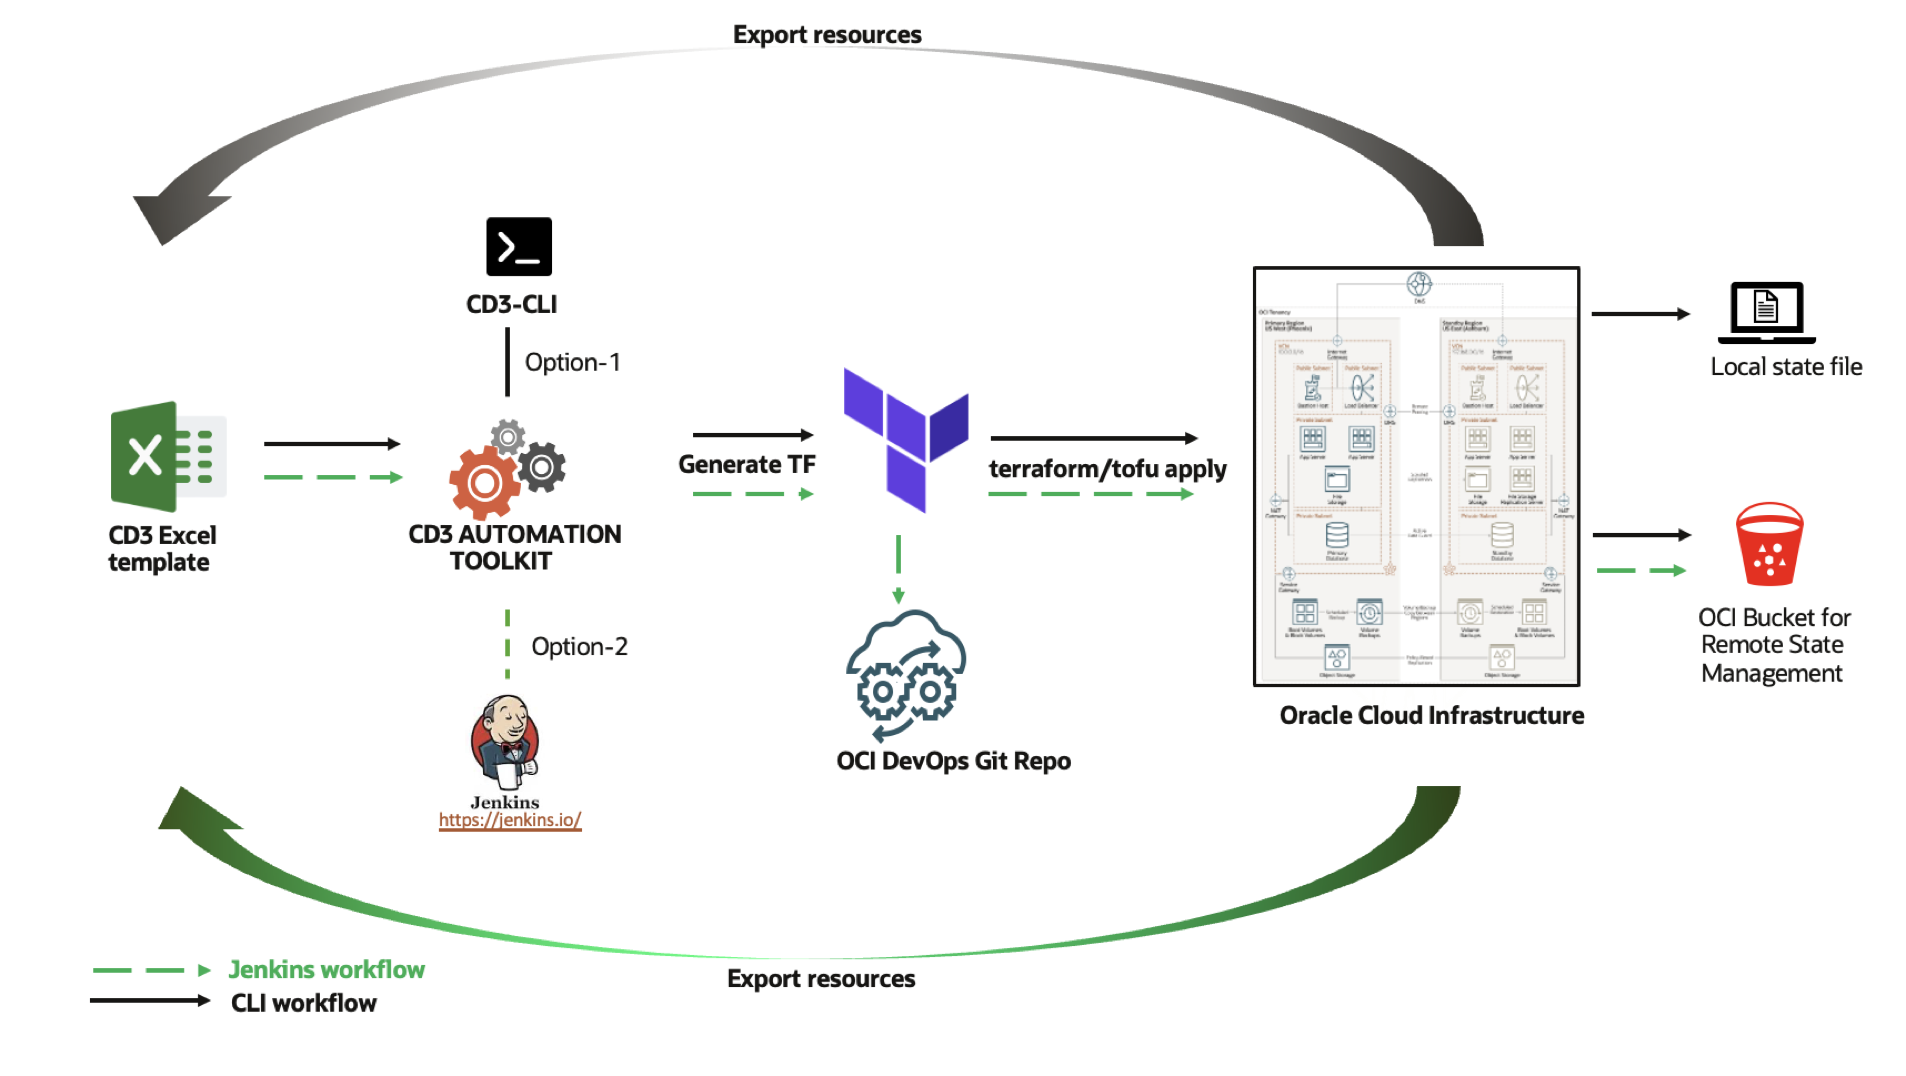
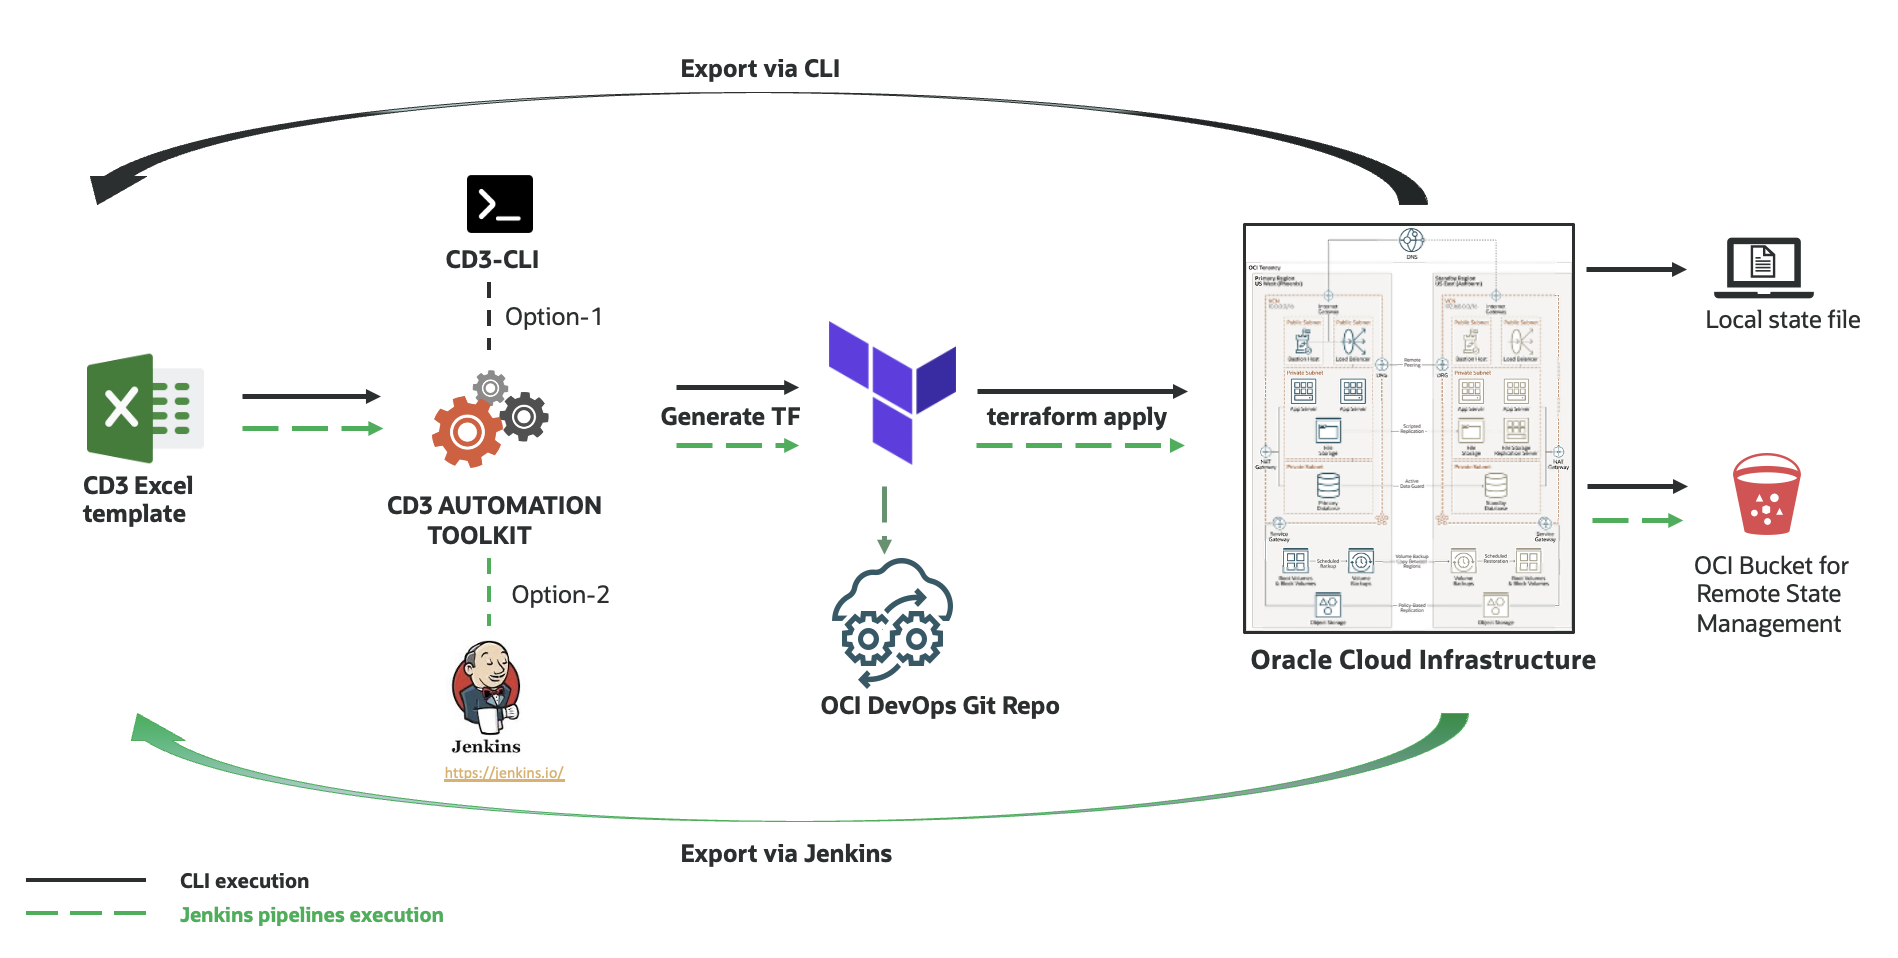
v2026.1.1

diff --git a/docs/connect-container-to-oci-tenancy.md b/docs/connect-container-to-oci-tenancy.md
@@ -35,50 +35,6 @@ Connecting the CD3 container to an OCI tenancy authenticates the toolkit, allowi
 <span style="color: teal; font-weight: bold;">3 - Edit properties file</span>
 
 
-<details class="highlight-note">
-<style>
-  details.highlight-note > summary {
-      background-color: #c72e0bff !important;
-      color: white;
-      padding: 8px 12px;
-      border-radius: 5px;
-      cursor: pointer;
-      font-weight: bold;
-      list-style: none; 
-  }
-  details.highlight-note {
-      border: 1px solid #ebe70dff !important;  
-      border-radius: 5px !important;
-  }
-  details.highlight-note > summary:hover {
-      background-color: #db3826ff !important;
-      border: 2px solid #d8d65eff;
-  }
-  details.highlight-note > summary::before {
-      background-color: #ffffff !important;  
-  }
-</style>
-
-<summary> ⚠️ Important Deprecation Notice ⚠️</summary>
-
-<br>
-
-<b>The old properties file and path:</b>
-
-    ```bash
-    /cd3user/oci_tools/cd3_automation_toolkit/user-scripts/tenancyconfig.properties
-    ```
-<b>will be deprecated from the next release v2025.3.0</b>
-  
-<br>
-    <b>The new file name and path will be:</b>
-
-    ```bash
-    /cd3user/oci_tools/cd3_automation_toolkit/connectOCI.properties
-    ```
-
-</details>
-
 
 
 
@@ -218,52 +174,11 @@ Connecting the CD3 container to an OCI tenancy authenticates the toolkit, allowi
     - Review Advanced Parameters Section for CI/CD setup. **The toolkit can be used either with CLI or with Jenkins.** If you plan to use the toolkit with Jenkins then be ready with user details that will be used to connect to DevOps Repo in OCI. Specifying these parameters as **'yes'** in properties file will create Object Storage Bucket and Devops Git Repo/Project/Topic in OCI and enable toolkit usage with Jenkins. The toolkit supports users in primary IDCS stripes or default domains only for DevOps GIT operations.<br>
 
  
-
+<br>
 <span style="color: teal; font-weight: bold;">4 - Initialise the environment</span>
 
 * Initialise your environment to use the Automation Toolkit.
 
-<details class="highlight-note">
-<style>
-  details.highlight-note > summary {
-      background-color: #c72e0bff !important;
-      color: white;
-      padding: 8px 12px;
-      border-radius: 5px;
-      cursor: pointer;
-      font-weight: bold;
-      list-style: none; 
-  }
-  details.highlight-note {
-      border: 1px solid #ebe70dff !important;  
-      border-radius: 5px !important;
-  }
-  details.highlight-note > summary:hover {
-      background-color: #db3826ff !important;
-      border: 2px solid #d8d65eff;
-  }
-  details.highlight-note > summary::before {
-      background-color: #ffffff !important;  
-  }
-</style>
-
-
-<summary>⚠️ Important Deprecation Notice ⚠️</summary>
-
-<br>
-
-<b>Below old command will be deprecated starting from the next major release v2025.3.0</b>
-
-    ```bash
-    python createTenancyConfig.py tenancyconfig.properties
-    ```
-<b>Instead use this command:</b>
-  
-    ```bash
-    python connectCloud.py oci  connectOCI.properties
-    ```
-
-</details>
 
 
 ```

diff --git a/docs/multiple-prefixes.md b/docs/multiple-prefixes.md
@@ -1,52 +1,82 @@
 # **Connect container to OCI Tenancy - Multiple Prefixes**
 ---
 
-The toolkit allows independent management of multiple environments using the same container. This enables better resource control and custom configurations for each environment. 
+<span style="color: teal; font-weight: bold;"> Overview</span>
 
+The CD3 toolkit supports <b>managing multiple OCI environments</b> (such as Production, Development or QA) within a single container by using <b>prefix-based configurations</b>.
 
-!!! note "Multi-prefix with Jenkins"
+Each prefix represents an independent environment, enabling you to isolate resources and outputs, maintain separate configuration files, and run deployments without interference.
 
-    * Starting from v2024.4.1, `connectCloud.py` can be executed with different prefix values per container when using Jenkins.
+<br>
+
+<span style="color: teal; font-weight: bold;"> 📌 Use Cases</span>
+
+This is particularly useful when:
+
+   - Managing Prod and Non-Prod environments within the same container
+   - Maintaining separate Terraform outputs for each environment
+   - Running parallel or independent deployments
 
 <br>
 
+<span style="color: teal; font-weight: bold;"> 🛠️ Configuration Steps</span>
 
-<span style="color: teal; font-weight: bold;"> 📌 Use Case</span>
+<b>1. Prepare the properties file:</b>
 
-* Managing Multiple Environments (Prod, Non-Prod etc.,) as separate entities within a single container.
+   &nbsp;&nbsp;&nbsp;Update the <b>connectOCI.properties</b> file as described in <a href="../connect-container-to-oci-tenancy"><u>Connect CD3 Container to OCI</u></a>. <br>
+
+   - Assign a unique prefix for each environment. <br>
+      <i>Example:</i> <br>`demo_nonprod`<br> `demo_prod`
+
+
+<b>2. Customize Environment-Specific Parameters</b>
+
+&nbsp;&nbsp;&nbsp;Each prefix can have its own configuration, such as:
+
+- Different outdir structures
+- Separate tenancy details etc., 
+
+
+<b>3. (Recommended) Use Separate properties Files</b>
+
+ &nbsp;&nbsp;&nbsp;Instead of modifying the same file repeatedly, create environment-specific copies:<br>
+   &nbsp;&nbsp;&nbsp;&nbsp;&nbsp;&nbsp;`connectOCI_demo_prod.properties`<br> &nbsp;&nbsp;&nbsp;&nbsp;&nbsp;&nbsp;`connectOCI_demo_nonprod.properties` <br>
+ 
+ &nbsp;&nbsp;&nbsp;This helps preserve configuration history and simplify repeated executions.
 
 
 
+<b>4. Execute the Script</b>
 
-<span style="color: teal; font-weight: bold;"> 🛠️ Steps</span>
-
-* Edit the **connectOCI.properties** file according to <a href="../connect-container-to-oci-tenancy"><u>Connect CD3 Container to OCI</u></a>. Use a unique prefix that differs from the ones used previously. *Eg:  demo_prod,  demo_nonprod.*
-
-!!! tip
-    You can copy connectOCI.properties file as connectOCI_<prefix\>.properties and edit this file instead of directly editing connectOCI.properties.<br>
-    This will help retain the input properties files used for different executions of the connectCloud.py
-
-* Different values can be specified for other parameters as well. For instance, one prefix can be configured to have **multiple outdir structure** for the generated terraform files, while another prefix can be set with a **single outdir structure**.
-* Execute **connectCloud.py** with modified **connectOCI.properties** or **connectOCI_<prefix\>.properties**.
-* After executing **connectCloud.py**, the following screenshots show how the environment specific out directories look like when using the toolkit with CLI and with Jenkins.
+  - Run connectCloud.py using the appropriate properties file for each prefix.<br>
+   <i>Example:</i> <br>
+   `python connectCloud.py oci connectOCI_demo_prod.properties` <br>
+   `python connectCloud.py oci  connectOCI_demo_nonprod.properties`
 
 <br>
+
 
 
 <span style="color: teal; font-weight: bold;"> Multi Prefix with CLI</span>
 
-In the container, folders named after the specified prefix values will be created under the **/cd3user/tenancies** directory. Each environment specific folder is created with its own unique configuration specified in above steps.
+- The container creates out directories under: `/cd3user/tenancies/`
+- Each prefix has its own isolated folder containing Configuration, Generated Terraform files and Environment-specific outputs <br>
 
-![CLI](../images/multiple-prefixes-cli.jpg)
+    ![CLI](../images/multiple-prefixes-cli.jpg)
 
 <br>
 
 
 <span style="color: teal; font-weight: bold;"> Multi Prefix with Jenkins</span>
 
-The Jenkins dashboard appears as follows when configured with two prefixes.
+- The Jenkins dashboard appears as follows when configured with two prefixes.
 
-![jenkins](../images/multiple-prefixes-jenkins.jpg)
+    ![jenkins](../images/multiple-prefixes-jenkins.jpg)
 
 
-Check <a href=../cd3-jenkins#bootstrapping-of-jenkins-in-the-toolkit> <u>the first Note block</u></a> to enable jenkins for multiple prefixes.
+
+!!! info "Jenkins configuration for new prefix"
+      - If connectCloud.py has been run again for a new prefix, then first kill the existing jenkins process and start new after that.
+      - Command to get Jenkins process id -  ```ps -ef | grep jenkins```
+      - Command to kill - ```kill -9 <process_id>```
+      - Start Jenkins using - ```/usr/share/jenkins/jenkins.sh &```